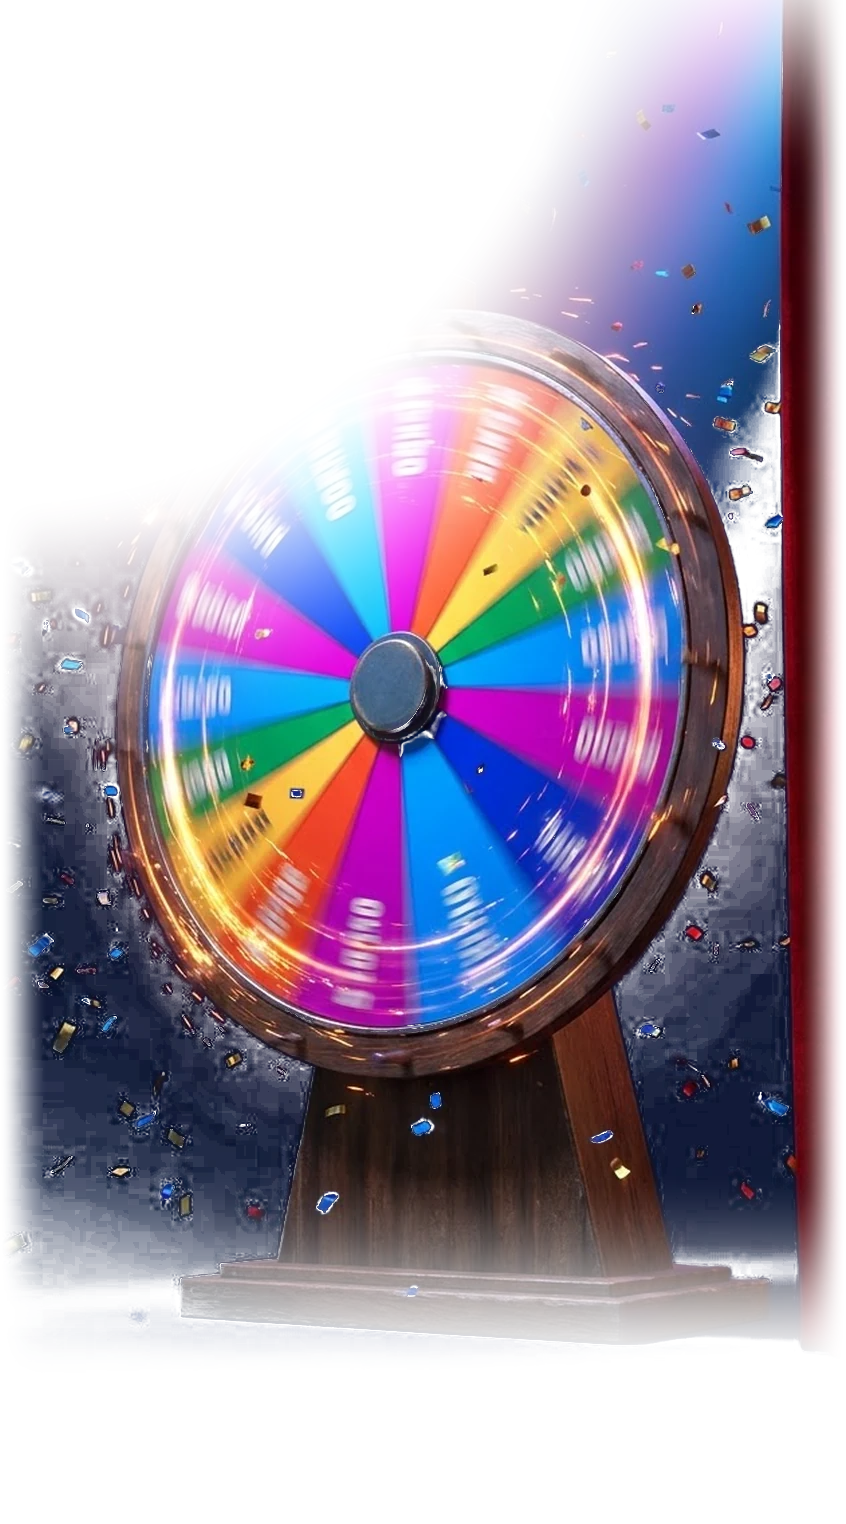
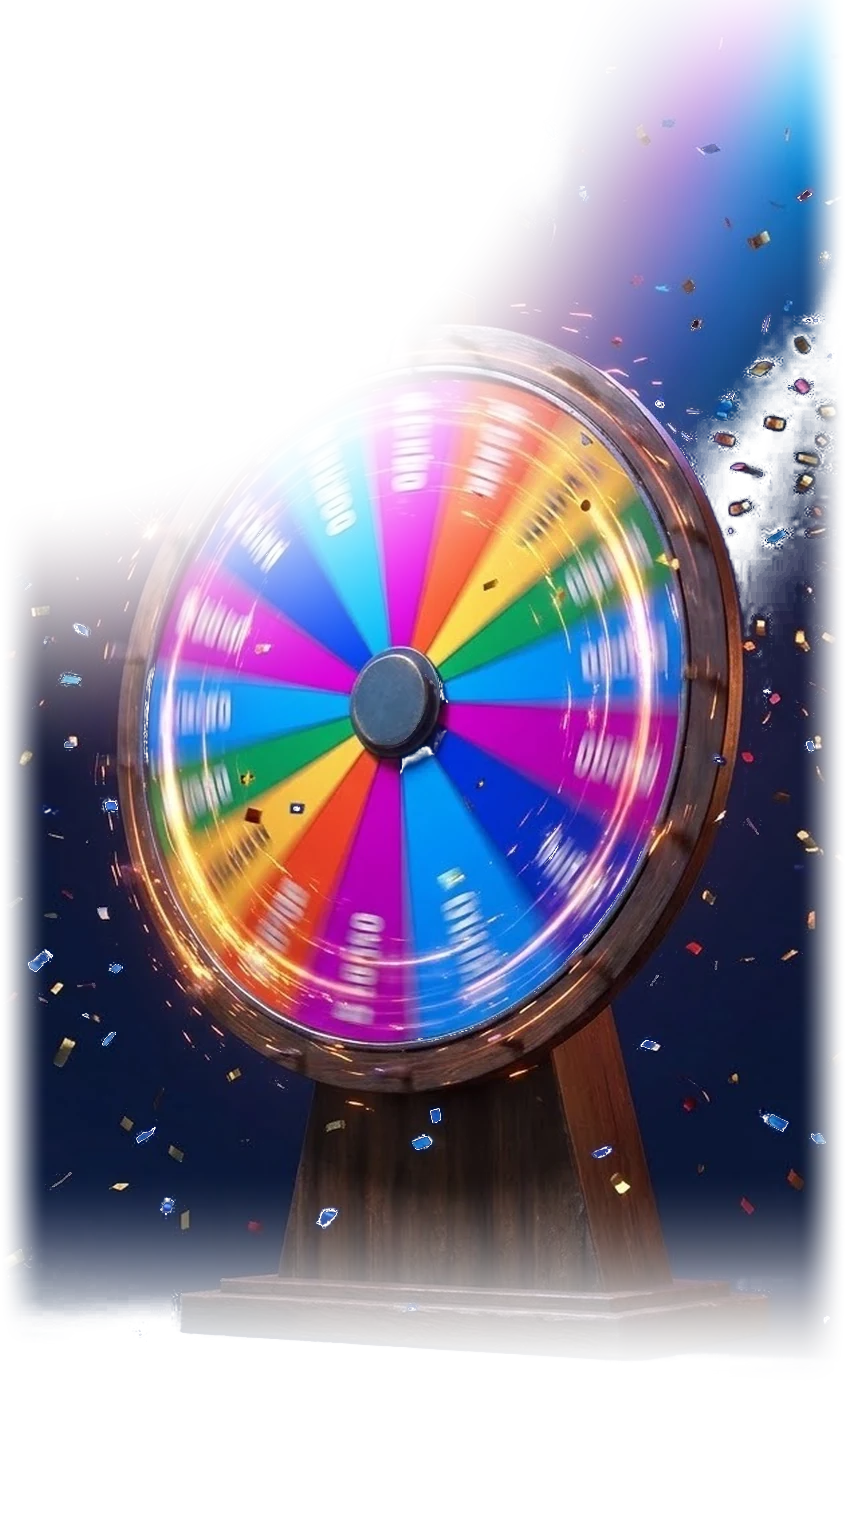
Wheels: art without curtain, Boss bonus a fifth of the target, Redemption only in the final round
Claude-Session: https://claude.ai/code/session_01Lw5tKkUzdm3a7oMN3WokUa

diff --git a/src/games/wheels/__tests__/wheels.test.ts b/src/games/wheels/__tests__/wheels.test.ts
@@ -7,7 +7,7 @@ import {
   judge, soloExp, spinCombo, spinField, FIELDS, startSolo, startTurn, stepSolo, stepTurn, turnPoints, STYLES, STYLE_KEYS,
   type Answer, type Question, type Rng, type Turn,
 } from '../core';
-import { actor, canRedeem, startOffline, stepOffline, upgradeSaved, BOSS_BONUS, BOSS_ITEMS, REDEMPTION_ITEMS, redemptionItems, type FullBank, type OfflineGame } from '../offline';
+import { actor, canRedeem, startOffline, stepOffline, upgradeSaved, bossBonus, BOSS_ITEMS, REDEMPTION_ITEMS, redemptionItems, type FullBank, type OfflineGame } from '../offline';
 import { SAMPLE_BANK as bank } from '../data/samples';
 
 function seeded(seed: number): Rng {
@@ -200,34 +200,37 @@ test('Offline: whole games finish, by target or after Boss Round 3', () => {
   // A low hit rate on 100 runs all three cycles and three Boss Rounds.
   const slow = drive(startOffline(3, 100, bank, seeded(21)), 21, 0.1);
   assert.equal(slow.log.filter((l) => l.k === 'boss').length, 3);
-  assert.ok(slow.log.filter((l) => l.k === 'boss').every((l) => l.k === 'boss' && l.bonus === Math.floor(BOSS_BONUS / l.winners.length)));
+  assert.ok(slow.log.filter((l) => l.k === 'boss').every((l) => l.k === 'boss' && l.bonus === Math.floor(bossBonus(slow.target) / l.winners.length)));
 });
 
 test('Offline: the game stops the moment someone reaches the target', () => {
-  const g = drive(startOffline(2, 50, bank, seeded(31)), 31, 1);
+  const g = drive(startOffline(2, 25, bank, seeded(31)), 31, 1);
   assert.equal(g.phase, 'done');
-  assert.ok(g.result!.winners.every((s) => g.scores[s] >= 50));
+  assert.ok(g.result!.winners.every((s) => g.scores[s] >= 25));
   assert.ok(g.log.filter((l) => l.k === 'boss').length < 3);
 });
 
-test('#39a: Redemption goes to last place (ties too), after a round, once an act for the whole game', () => {
+test('#22: Redemption goes to last place (ties too), only in the final round of Act III, once a game', () => {
   const g0 = startOffline(3, 100, bank, seeded(41));
   const g = { ...g0, scores: [5, 5, 9] };
-  assert.equal(canRedeem(g, 0), false); // no round played yet
-  assert.equal(canRedeem({ ...g, roundsPlayed: 1 }, 0), true); // tied lowest
-  assert.equal(canRedeem({ ...g, roundsPlayed: 1 }, 1), true);
-  assert.equal(canRedeem({ ...g, roundsPlayed: 1 }, 2), false); // not last
-  assert.equal(canRedeem({ ...g, roundsPlayed: 1, redCycle: 0 }, 0), false); // used this act
-  assert.equal(canRedeem({ ...g, roundsPlayed: 3, cycle: 1, redCycle: 0 }, 0), true); // a new act
+  const fin = { ...g, cycle: 2, round: 1 };
+  assert.equal(canRedeem(g, 0), false); // first round
+  assert.equal(canRedeem({ ...g, roundsPlayed: 2, round: 2 }, 0), false); // last round of Act I is not the final round
+  assert.equal(canRedeem({ ...g, cycle: 2, round: 0 }, 0), false); // Act III, not its last round
+  assert.equal(canRedeem(fin, 0), true); // tied lowest
+  assert.equal(canRedeem(fin, 1), true);
+  assert.equal(canRedeem(fin, 2), false); // not last
+  assert.equal(canRedeem({ ...fin, redCycle: 2 }, 0), false); // used this game
 });
 
-test('#39a: Redemption is offered once an act in real games, and taking it ends the offers for that act', () => {
+test('#22: in real games Redemption is played at most once, and only in the final round', () => {
   for (const seats of [2, 3, 4]) {
     for (const seed of [61, 62, 63]) {
       const g = drive(startOffline(seats, 100, bank, seeded(seed)), seed, 0.3);
       assert.equal(g.phase, 'done');
-      const acts = g.log.filter((l) => l.k === 'redemption').length;
-      assert.ok(acts >= 1 && acts <= 3, `${seats} players seed ${seed}: ${acts} Redemptions`);
+      const reds = g.log.filter((l) => l.k === 'redemption').length;
+      assert.ok(reds <= 1, `${seats} players seed ${seed}: ${reds} Redemptions`);
+      assert.ok(g.redCycle == null || g.redCycle === 2);
     }
   }
 });

diff --git a/src/games/wheels/offline.ts b/src/games/wheels/offline.ts
@@ -2,7 +2,7 @@
 // (TM1). Cycles (acts) of 3, 2 and 2 rounds of turns, each cycle ending in a Boss Round, played here as
 // turn-based swipes. Reaching the target ends the game at once; otherwise the best score after Boss Round 3 wins
 // (equal top scores draw). The tarot cards were removed (#39a, Yazan 2026-11-01): Redemption is offered to last
-// place once an act, and the Star and Sun are gone.
+// place once a game, in the final round only (2026-11-02), and the Star and Sun are gone.
 import {
   spinField, startTurn, stepTurn, turnPoints,
   type Bank, type FieldKey, type Mix, type QResult, type Question, type Rng, type Target, type Turn, type TurnEvent,
@@ -15,7 +15,10 @@ export const BOSS_ITEMS = 30;
 export const BOSS_MS = 30_000;
 export const BOSS_RIGHT = 2;
 export const BOSS_WRONG = -1;
-export const BOSS_BONUS = 20;
+/** Boss Round bonus: a fifth of the target (+5 at 25, +10 at 50), Yazan 2026-11-02 (was +20). */
+export const bossBonus = (target: number) => Math.round(target / 5);
+/** The bonus in a 50-point game, the biggest one (EXP caps). */
+export const BOSS_BONUS = bossBonus(50);
 
 export const REDEMPTION_ITEMS = 10;
 export const REDEMPTION_MS = 20_000;
@@ -124,7 +127,7 @@ export type OfflineGame = {
   turn: Turn | null;
   redemption: Redemption | null;
   boss: Boss | null;
-  /** The cycle Redemption was last used in: once an act for the whole game (Yazan 2026-11-01). */
+  /** The cycle Redemption was used in: once a game, final round only (Yazan 2026-11-02). */
   redCycle: number | null;
   /** WC19: Redemption rounds played this game, per field, in order. */
   redRounds?: Partial<Record<FieldKey, number[]>>;
@@ -178,9 +181,11 @@ export function actor(g: OfflineGame): number | null {
 
 export const isLowest = (g: OfflineGame, seat: number) => g.scores[seat] === Math.min(...g.active.map((s) => g.scores[s]));
 
-/** Last place (ties allowed), a round already played, and not used yet this act by anyone (Yazan 2026-11-01). */
+/** Is this the game's final round (the last round of Act III)? */
+export const isFinalRound = (g: OfflineGame) => g.cycle === CYCLES.length - 1 && g.round === CYCLES[g.cycle] - 1;
+/** Last place (ties allowed), only in the game's final round, once a game for everyone (Yazan 2026-11-02). */
 export const canRedeem = (g: OfflineGame, seat: number) =>
-  g.redCycle !== g.cycle && g.roundsPlayed >= 1 && isLowest(g, seat);
+  g.redCycle == null && isFinalRound(g) && isLowest(g, seat);
 
 function finish(g: OfflineGame, pool: number[]): OfflineGame {
   const top = Math.max(...pool.map((s) => g.scores[s]));
@@ -233,7 +238,7 @@ function startBoss(g: OfflineGame, bank: FullBank, rng: Rng): OfflineGame {
   return { ...g, phase: 'boss', boss, turn: null, redemption: null };
 }
 
-/** Highest Boss points share +20, split evenly and rounded down (spec 5.2). */
+/** Highest Boss points share a fifth of the target, split evenly and rounded down (spec 5.2). */
 export function closeBoss(g: OfflineGame): OfflineGame {
   const b = g.boss!;
   const seats = b.order.filter((s) => g.active.includes(s));
@@ -241,7 +246,7 @@ export function closeBoss(g: OfflineGame): OfflineGame {
   for (const s of seats) points[s] = bossPoints(b, s);
   const top = Math.max(...seats.map((s) => points[s]));
   const winners = seats.filter((s) => points[s] === top);
-  const bonus = Math.floor(BOSS_BONUS / winners.length);
+  const bonus = Math.floor(bossBonus(g.target) / winners.length);
   const scores = [...g.scores];
   for (const s of winners) scores[s] += bonus;
   return checkTarget({ ...g, scores, phase: 'bossOver', log: [...g.log, { k: 'boss', winners, bonus, points }] });

diff --git a/src/games/wheels/OfflinePlay.tsx b/src/games/wheels/OfflinePlay.tsx
@@ -15,7 +15,7 @@ import type { PlayProps } from '../shell/types';
 import { fieldName, type Mix, type QResult, type Target } from './core';
 import { BANK } from './data';
 import {
-  actor, bossPoints, startOffline, stepOffline, upgradeSaved, BOSS_BONUS, BOSS_MS, BOSS_RIGHT, BOSS_WRONG, CYCLES, REDEMPTION_ITEMS, REDEMPTION_MS,
+  actor, bossPoints, startOffline, stepOffline, upgradeSaved, bossBonus, BOSS_MS, BOSS_RIGHT, BOSS_WRONG, CYCLES, REDEMPTION_ITEMS, REDEMPTION_MS,
   type Log, type OfflineEvent, type OfflineGame,
 } from './offline';
 import { PauseMenu } from '../shell/PauseMenu';
@@ -241,7 +241,7 @@ export function RedemptionOffer({ seat, seats, onPick, onPause }: { seat: number
     <View style={{ flex: 1, gap: u(14) }}>
       <Top kicker={`Redemption · ${seats.get(seat)?.name ?? ''}`} title="A second chance" onPause={onPause} />
       <T size={14} style={{ textAlign: 'center', paddingTop: u(8) }}>{`You’re last. Swap this turn for a Redemption round: ${REDEMPTION_ITEMS} quick true or false calls in ${REDEMPTION_MS / 1000} seconds, +1 each.`}</T>
-      <T size={12} color={VV.dim} style={{ textAlign: 'center' }}>Redemption can be used once an act, by whoever is last first.</T>
+      <T size={12} color={VV.dim} style={{ textAlign: 'center' }}>Redemption is offered once a game, in the final round, to whoever is last first.</T>
       <View style={{ flex: 1 }} />
       <View style={{ flexDirection: 'row', gap: u(10) }}>
         <Btn label="Keep my turn" ghost onPress={() => onPick(false)} style={{ flex: 1 }} />
@@ -349,7 +349,7 @@ function BossBoard({ g, seat, now, seats, onEvent, onPause, hidden }: { g: Offli
           <T f={CD} size={19} color={VV.redInk} style={{ textAlign: 'center' }}>{b.category}</T>
           <Rule c="rgba(42,26,18,0.18)" />
           <T size={13} color={VV.paperInk} style={{ textAlign: 'center' }}>{`Swipe right if it belongs, left if it doesn’t. ${BOSS_MS / 1000} seconds. +${BOSS_RIGHT} for a right swipe, ${BOSS_WRONG} for a wrong one.`}</T>
-          <T size={12} color={VV.paperSoft} style={{ textAlign: 'center' }}>{`Everyone gets the same items in their own order. Highest score wins +${BOSS_BONUS}.`}</T>
+          <T size={12} color={VV.paperSoft} style={{ textAlign: 'center' }}>{`Everyone gets the same items in their own order. Highest score wins +${bossBonus(g.target)}.`}</T>
         </Bill>
         <View style={{ flex: 1 }} />
         <Btn label="Start swiping" onPress={() => onEvent({ type: 'GO', now: Date.now() })} />
@@ -397,7 +397,7 @@ export function BossOver({ g, seats, board, onNext }: { g: OfflineGame; seats: S
   return (
     <View style={{ gap: u(12) }}>
       <Top kicker={`Act ${ROMAN[g.cycle]} · Boss Round`} title={`${l.winners.map(n).join(' and ')} +${l.bonus}`} />
-      <T size={13} color={VV.soft}>{l.winners.length > 1 ? `A tie at the top: they share the ${BOSS_BONUS}.` : `Best swiper takes the ${BOSS_BONUS}.`}</T>
+      <T size={13} color={VV.soft}>{l.winners.length > 1 ? `A tie at the top: +${l.bonus} each.` : `Best swiper takes +${l.bonus}.`}</T>
       <Board board={board.map((p) => ({ ...p, me: l.winners.includes(p.seat) }))} extra={extra} />
       {onNext ? <Btn label={last ? 'Final curtain' : `On to Act ${ROMAN[g.cycle + 1]}`} onPress={onNext} /> : null}
     </View>

diff --git a/src/features/info/content.ts b/src/features/info/content.ts
@@ -48,7 +48,7 @@ export const CHAPTERS: Chapter[] = [
       { q: 'How does Nova Medicordle work?', a: "Guess the medical word in six tries. Green is the right letter in the right place, yellow is in the word but elsewhere, grey is not in the word. The Daily word has 6 letters and earns double; Endless also has Classic 5 with 5-letter words." },
       { q: 'How do The Streak Master and The Quiz Parade work?', a: 'The Streak Master is a race against the clock: every right answer in a row is worth one point more than the last, and a wrong answer resets your streak. The Quiz Parade marches through seven kinds of question, each on its own clock, and harder kinds score more.' },
       { q: 'How do The Riddler and Nova Crossword work?', a: 'The Riddler shows a picture riddle that you read as a condition or sign. Nova Crossword is a medical crossword: tap a square to light up its word, double tap to open it, and you have 3 hearts per puzzle. Both are played level by level, and stars open the next level.' },
-      { q: 'How does The Wheels of Chaos work?', a: 'One wheel with three rings picks how many questions you get, their style and their field. Reach the target first, 25 or 50 points. With friends, each act ends in a Boss Round, and from round 2 whoever is last can swap a turn for a Redemption round.' },
+      { q: 'How does The Wheels of Chaos work?', a: 'One wheel with three rings picks how many questions you get, their style and their field. Reach the target first, 25 or 50 points. With friends, each act ends in a Boss Round, and in the final round whoever is last can swap a turn for a Redemption round, once a game.' },
       { q: 'What are The Silent Artist and The Conqueror?', a: 'In The Silent Artist you pick one of 3 secret words and draw it (or act it out on one phone) while everyone guesses. The Conqueror is a war of questions: answer to raise troops, play 6 kinds of action card, make alliances and take your rivals\' lands. Lose your capital and you are out.' },
       { q: 'What are Code Clinic, Nova Password and The Imposter?', a: 'Code Clinic: two teams, and each spymaster gives one-word clues to find their team\'s cards and avoid the deadly one. Nova Password: in teams of two, one partner gives one-word clues until the other guesses the term. The Imposter: everyone gets the same word except one player, and you give clues and vote to catch them.' },
     ],

diff --git a/src/games/wheels/OnlinePlay.tsx b/src/games/wheels/OnlinePlay.tsx
@@ -18,7 +18,7 @@ import type { OnlineProps } from '../shell/types';
 import { fieldName, type Answer, type QResult, type Question, type TurnEvent } from './core';
 import { BANK } from './data';
 import { bankVersion } from './keys';
-import { actor, bossPoints, BOSS_BONUS, BOSS_MS, BOSS_RIGHT, BOSS_WRONG, type OfflineGame } from './offline';
+import { actor, bossPoints, bossBonus, BOSS_MS, BOSS_RIGHT, BOSS_WRONG, type OfflineGame } from './offline';
 import { actName, Board, BossOver, recapLine, RedemptionBoard, RedemptionOffer, Top, TurnOver, type Seats } from './OfflinePlay';
 import { ONLINE_MS, type Move, type OnlineWheels } from './online';
 import { PauseMenu } from '../shell/PauseMenu';
@@ -261,7 +261,7 @@ export function OnlinePlay({ def, roomId, matchId, me }: OnlineProps) {
     body = mine ? (
       <RedemptionOffer seat={who} seats={seats} onPick={(use) => send({ type: 'REDEEM', use })} onPause={pause} />
     ) : (
-      <Watching kicker="Redemption" title={`${seatName(who)} is last`} line="Last place may swap this turn for a Redemption round, once an act." board={board} onPause={pause} />
+      <Watching kicker="Redemption" title={`${seatName(who)} is last`} line="Final round: last place may swap this turn for a Redemption round, once a game." board={board} onPause={pause} />
     );
   else if (g.phase === 'redemption' && g.redemption)
     body = (
@@ -404,7 +404,7 @@ function OnlineBoss({ g, seat, st, server, seatName, matchId, onDone, onPause }:
           <T f={CD} size={19} color={VV.redInk} style={{ textAlign: 'center' }}>{b.category}</T>
           <Rule c="rgba(42,26,18,0.18)" />
           <T size={13} color={VV.paperInk} style={{ textAlign: 'center' }}>{`Swipe right if it belongs, left if it doesn’t. ${BOSS_MS / 1000} seconds. +${BOSS_RIGHT} for a right swipe, ${BOSS_WRONG} for a wrong one.`}</T>
-          <T size={12} color={VV.paperSoft} style={{ textAlign: 'center' }}>{`Same items for everyone, each in their own order. Highest score wins +${BOSS_BONUS}.`}</T>
+          <T size={12} color={VV.paperSoft} style={{ textAlign: 'center' }}>{`Same items for everyone, each in their own order. Highest score wins +${bossBonus(g.target)}.`}</T>
         </Bill>
         {startsIn != null ? <T f={CD} size={30} color={VV.gold} style={{ textAlign: 'center' }}>{String(startsIn)}</T> : null}
         {done && seat != null ? (

diff --git a/src/games/wheels/def.ts b/src/games/wheels/def.ts
@@ -46,8 +46,8 @@ export const wheelsOfChaos: GameDef = {
       howTo: [
         'Add 2 to 4 players. Each round the turn order is shuffled, then everyone spins in turn.',
         'The show has three acts of 3, 2 and 2 rounds.',
-        'Each act ends with a Boss Round: swipe the items that fit. The best swiper wins +20.',
-        'From round 2, whoever is last first can swap a turn for a Redemption round. Once an act, for everyone.',
+        'Each act ends with a Boss Round: swipe the items that fit. The best swiper wins a fifth of the target: +5 in a 25-point game, +10 in a 50.',
+        'In the final round, whoever is last first can swap a turn for a Redemption round. Once a game, for everyone.',
         'First to the target wins at once. Otherwise the best score after Act III wins. No EXP in this mode.',
       ],
     },
@@ -58,7 +58,7 @@ export const wheelsOfChaos: GameDef = {
       howTo: [
         'The host picks a target of 25 or 50 points and the question type. 2 to 4 players, no teams.',
         'Players take turns while the whole room watches.',
-        'From round 2, whoever is last first can swap a turn for a Redemption round. Once an act, for everyone.',
+        'In the final round, whoever is last first can swap a turn for a Redemption round. Once a game, for everyone.',
         'The Boss Round is played by everyone at once, each on their own phone.',
         'Boss Round winners show up as alerts. You earn half your points as EXP.',
       ],

diff --git a/src/features/loading/configs.ts b/src/features/loading/configs.ts
@@ -107,7 +107,7 @@ export const LOAD: Record<string, LoadCfg> = {
       { x: 0.5, y: 0.355, r: 50, c: 'rgba(255,170,60,0.6)', a: 'still' },
     ],
     parts: ['sparkle'],
-    tips: ['Last place can take a Redemption round, once an act.', 'Rule 2 Out and Matching are all or nothing.', 'The Boss Round winner takes +20.'],
+    tips: ['In the final round, last place can take a Redemption round.', 'Rule 2 Out and Matching are all or nothing.', 'The Boss Round winner takes a fifth of the target.'],
     fonts: ['Cinzel_500Medium', 'Cinzel_400Regular', 'CinzelDecorative_700Bold', 'CormorantGaramond_400Regular_Italic'],
   },
   'the-riddler': {
